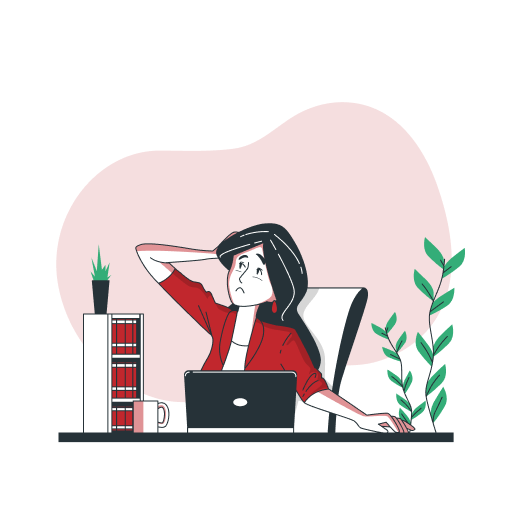
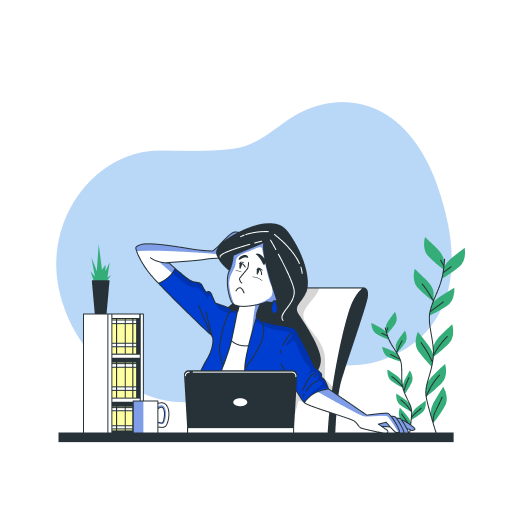
Theme Changed and Update Code

Changed region(s): [[0.0938, 0.1875, 0.9062, 0.8438], [0.6562, 0.7812, 0.75, 0.8125], [0.75, 0.8125, 0.8125, 0.8438]]

diff --git a/lib/Screens/password_recovery_page_screen.dart b/lib/Screens/password_recovery_page_screen.dart
@@ -1,18 +1,29 @@
 import 'package:flutter/material.dart';
 import 'package:flutter/gestures.dart'; // Import for TapGestureRecognizer
-import '../colors.dart';
+import '../colors.dart'; // Ensure this file defines required colors
 
 class PasswordRecoveryPageScreen extends StatefulWidget {
   @override
   _PasswordRecoveryPageScreenState createState() =>
       _PasswordRecoveryPageScreenState();
+
+  // Static constants for strings
+  static const String emailHint = "youremail@gmail.com";
+
+  const PasswordRecoveryPageScreen({super.key}); // Correct usage
 }
 
 class _PasswordRecoveryPageScreenState
     extends State<PasswordRecoveryPageScreen> {
   final _emailController = TextEditingController();
   final _formKey = GlobalKey<FormState>();
-  bool _isEmailValid = true; // Track email validity
+  bool _isButtonEnabled = true; // Button state
+
+  @override
+  void dispose() {
+    _emailController.dispose(); // Dispose controller to avoid memory leaks
+    super.dispose();
+  }
 
   @override
   Widget build(BuildContext context) {
@@ -25,22 +36,16 @@ class _PasswordRecoveryPageScreenState
         child: Column(
           crossAxisAlignment: CrossAxisAlignment.center,
           children: [
-            SizedBox(height: 32),
+            const SizedBox(height: 32),
 
-            // Hiremi Logo Image (centered at top)
-            Center(
-              child: Image.asset(
-                'assets/images/hireme.png',
-                width: 124.61,
-                height: 56,
-              ),
-            ),
+            // App Logo
+            const AppLogo(),
 
-            SizedBox(height: 20),
+            const SizedBox(height: 20),
 
             // Forget Password Text
-            Text(
-              "Forget Your Password,",
+            const Text(
+              "Forget Your Password,", // Direct strings (constant-like)
               textAlign: TextAlign.center,
               style: TextStyle(
                 fontFamily: 'Poppins',
@@ -50,7 +55,7 @@ class _PasswordRecoveryPageScreenState
                 color: AppColors.textColor,
               ),
             ),
-            Text(
+            const Text(
               "No worries, it happens!",
               textAlign: TextAlign.center,
               style: TextStyle(
@@ -62,20 +67,15 @@ class _PasswordRecoveryPageScreenState
               ),
             ),
 
-            SizedBox(height: 20),
+            const SizedBox(height: 20),
 
             // Illustration Image
-            Center(
-              child: Image.asset(
-                'assets/images/illustration.png',
-                width: 380,
-                height: 380,
-              ),
-            ),
+            _illustrationImage(),
 
-            SizedBox(height: 2),
+            const SizedBox(height: 20),
 
-            Text(
+            // Email Input Label
+            const Text(
               "Enter Email Address*",
               textAlign: TextAlign.center,
               style: TextStyle(
@@ -87,119 +87,71 @@ class _PasswordRecoveryPageScreenState
               ),
             ),
 
-            // Email Input Field (TextFormField for validation)
+            // Email Input Field
             Padding(
               padding: const EdgeInsets.symmetric(horizontal: 24.0),
-              child: Form(
-                key: _formKey,
-                child: TextFormField(
-                  controller: _emailController,
-                  decoration: InputDecoration(
-                    filled: true,
-                    fillColor: AppColors
-                        .textFieldFillColor, // Keeps fill color the same
-                    hintText: "youremail@gmail.com",
-                    prefixIcon: Icon(
-                      Icons.email_outlined,
-                      color: AppColors.textColor,
-                    ),
-                    border: OutlineInputBorder(
-                      borderSide: BorderSide(
-                        color: _isEmailValid
-                            ? AppColors.textFieldBorderColor
-                            : Colors.red, // Only change border color
-                        width: 2.0, // Border width
-                      ),
-                      borderRadius: BorderRadius.circular(10),
-                    ),
-                  ),
-                  validator: (value) {
-                    if (value == null || value.isEmpty) {
-                      setState(() {
-                        _isEmailValid = false; // Set email as invalid
-                      });
-                      return 'Invalid email or empty';
-                    }
-                    // Regular expression for basic email validation
-                    String pattern =
-                        r'^[a-zA-Z0-9._%+-]+@[a-zA-Z0-9.-]+\.[a-zA-Z]{2,}$';
-                    RegExp regExp = RegExp(pattern);
-                    if (!regExp.hasMatch(value)) {
-                      setState(() {
-                        _isEmailValid = false; // Set email as invalid
-                      });
-                      return 'Invalid email or empty';
-                    }
-                    setState(() {
-                      _isEmailValid = true; // Set email as valid
-                    });
-                    return null;
-                  },
-                ),
+              child: EmailInputField(
+                formKey: _formKey,
+                emailController: _emailController,
+                hintText: PasswordRecoveryPageScreen.emailHint, // Fixed usage
               ),
             ),
 
-            SizedBox(height: 10),
+            const SizedBox(height: 20),
 
-            // Instruction Text with clickable "verification code"
+            // Instruction Text
             Padding(
               padding: const EdgeInsets.symmetric(horizontal: 24.0),
               child: RichText(
                 textAlign: TextAlign.center,
                 text: TextSpan(
-                  style: TextStyle(
+                  style: const TextStyle(
                     fontFamily: 'Poppins',
                     fontSize: 12,
                     color: AppColors.secondaryTextColor,
                   ),
                   children: [
-                    TextSpan(
-                      text: "Enter your email address to receive a ",
-                    ),
+                    const TextSpan(
+                        text: "Enter your email address to receive a "),
                     TextSpan(
                       text: "verification code",
-                      style: TextStyle(
-                        color: Colors.blue, // Blue color for clickable text
+                      style: const TextStyle(
+                        color: Colors.blue,
                         fontWeight: FontWeight.bold,
-                        decoration:
-                            TextDecoration.underline, // Optional underline
+                        decoration: TextDecoration.underline,
                       ),
                       recognizer: TapGestureRecognizer()
                         ..onTap = () {
-                          // Handle the click event for the "verification code" text
-                          print("Verification code clicked");
+                          debugPrint("Verification code clicked");
                         },
                     ),
-                    TextSpan(
-                      text: " in your mailbox.",
-                    ),
+                    const TextSpan(text: " in your mailbox."),
                   ],
                 ),
               ),
             ),
 
-            SizedBox(height: 20),
+            const SizedBox(height: 30),
 
             // Send OTP Button
             Padding(
               padding: const EdgeInsets.symmetric(horizontal: 24.0),
               child: ElevatedButton(
-                onPressed: () {
-                  if (_formKey.currentState?.validate() ?? false) {
-                    // Proceed with OTP sending
-                    // Handle OTP send action here
-                  } else {
-                    // Show error if form is invalid
-                  }
-                },
+                onPressed: _isButtonEnabled
+                    ? () {
+                        if (_formKey.currentState?.validate() ?? false) {
+                          _sendOtp();
+                        }
+                      }
+                    : null, // Disable button if invalid
                 style: ElevatedButton.styleFrom(
                   backgroundColor: AppColors.primaryColor,
-                  minimumSize: Size(double.infinity, 50),
+                  minimumSize: const Size(double.infinity, 50),
                   shape: RoundedRectangleBorder(
                     borderRadius: BorderRadius.circular(10),
                   ),
                 ),
-                child: Text(
+                child: const Text(
                   "Send OTP",
                   style: TextStyle(
                     color: AppColors.buttonTextColor,
@@ -210,9 +162,99 @@ class _PasswordRecoveryPageScreenState
               ),
             ),
 
-            SizedBox(height: 50),
+            const SizedBox(height: 50),
           ],
         ),
+      ),
+    );
+  }
+
+  // Helper to send OTP
+  void _sendOtp() {
+    setState(() {
+      _isButtonEnabled = false;
+    });
+    Future.delayed(const Duration(seconds: 2), () {
+      setState(() {
+        _isButtonEnabled = true;
+      });
+    });
+    debugPrint("OTP sent to ${_emailController.text}");
+  }
+
+  // Illustration Image Widget
+  Widget _illustrationImage() {
+    return Center(
+      child: Image.asset(
+        'assets/images/illustration.png',
+        width: 380,
+        height: 380,
+      ),
+    );
+  }
+}
+
+// Email Input Field with validation
+class EmailInputField extends StatelessWidget {
+  final GlobalKey<FormState> formKey;
+  final TextEditingController emailController;
+  final String hintText; // Passed as a parameter
+
+  const EmailInputField({
+    super.key,
+    required this.formKey,
+    required this.emailController,
+    required this.hintText, // Ensure proper hint text is passed
+  });
+
+  @override
+  Widget build(BuildContext context) {
+    return Form(
+      key: formKey,
+      child: TextFormField(
+        controller: emailController,
+        decoration: InputDecoration(
+          filled: true,
+          fillColor: AppColors.textFieldFillColor,
+          hintText: hintText, // Use parameter for hint
+          prefixIcon: const Icon(
+            Icons.account_circle,
+            color: AppColors.primaryColor,
+          ),
+          border: OutlineInputBorder(
+            borderSide: const BorderSide(
+              color: AppColors.textFieldBorderColor,
+              width: 2.0,
+            ),
+            borderRadius: BorderRadius.circular(10),
+          ),
+        ),
+        validator: (value) {
+          if (value == null || value.isEmpty) {
+            return 'Email cannot be empty';
+          }
+          const pattern = r'^[a-zA-Z0-9._%+-]+@[a-zA-Z0-9.-]+\.[a-zA-Z]{2,}$';
+          if (!RegExp(pattern).hasMatch(value)) {
+            return 'Invalid email format';
+          }
+          return null;
+        },
+      ),
+    );
+  }
+}
+
+// App Logo Widget
+class AppLogo extends StatelessWidget {
+  const AppLogo({super.key});
+
+  @override
+  Widget build(BuildContext context) {
+    return Center(
+      child: Image.asset(
+        'assets/images/hireme.png',
+        width: 124.61,
+        height: 56,
       ),
     );
   }

diff --git a/lib/colors.dart b/lib/colors.dart
@@ -2,7 +2,7 @@ import 'package:flutter/material.dart';
 
 class AppColors {
   static const Color backgroundColor = Colors.white;
-  static const Color primaryColor = Color(0xFFC1272D);
+  static const Color primaryColor = Color(0xFF003DD1);
   static const Color textColor = Colors.black;
   static const Color secondaryTextColor = Color(0xFF626262);
   static const Color buttonShadowColor = Color(0xFFCBD6FF);
